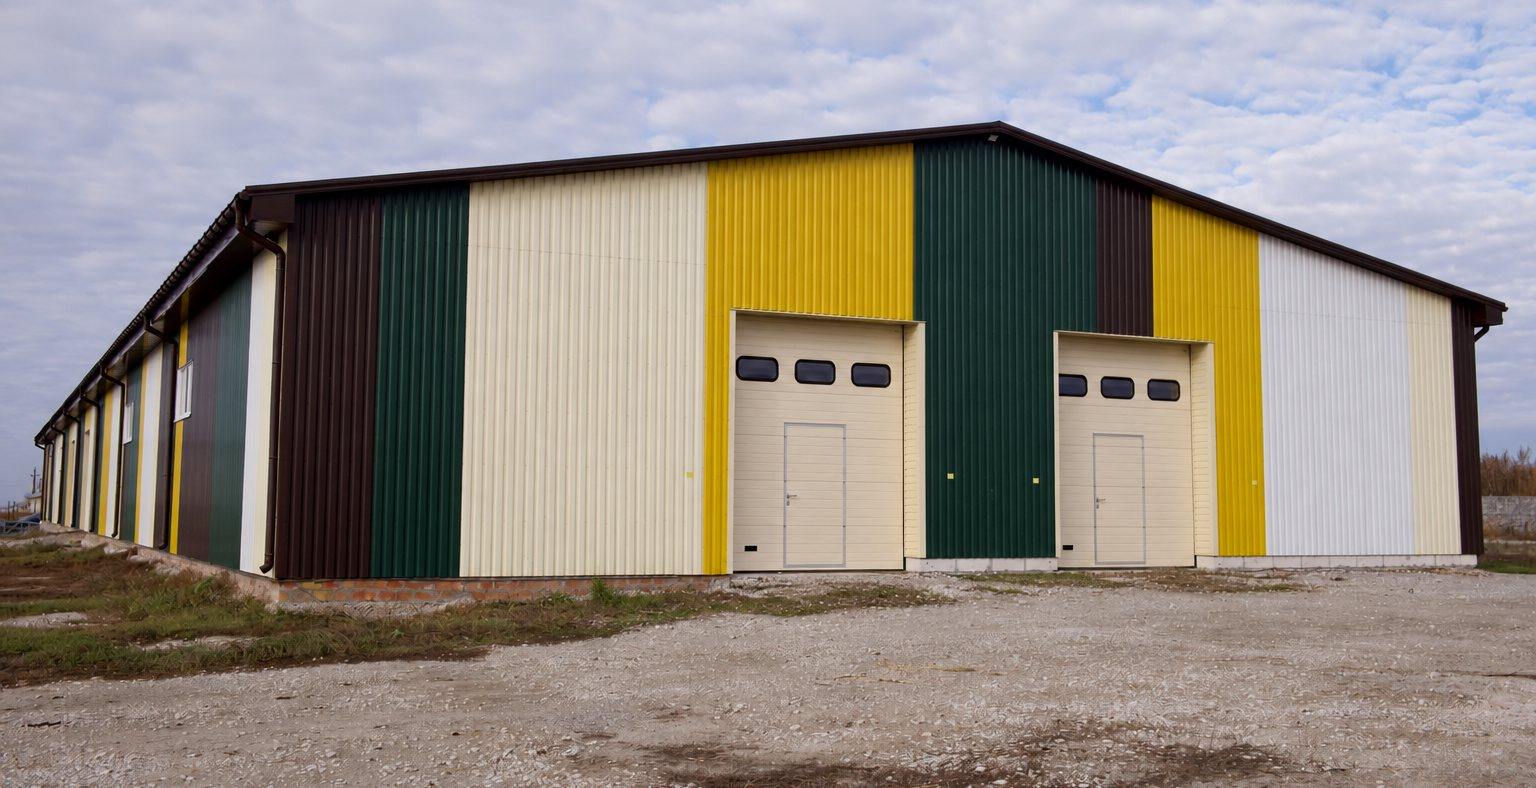
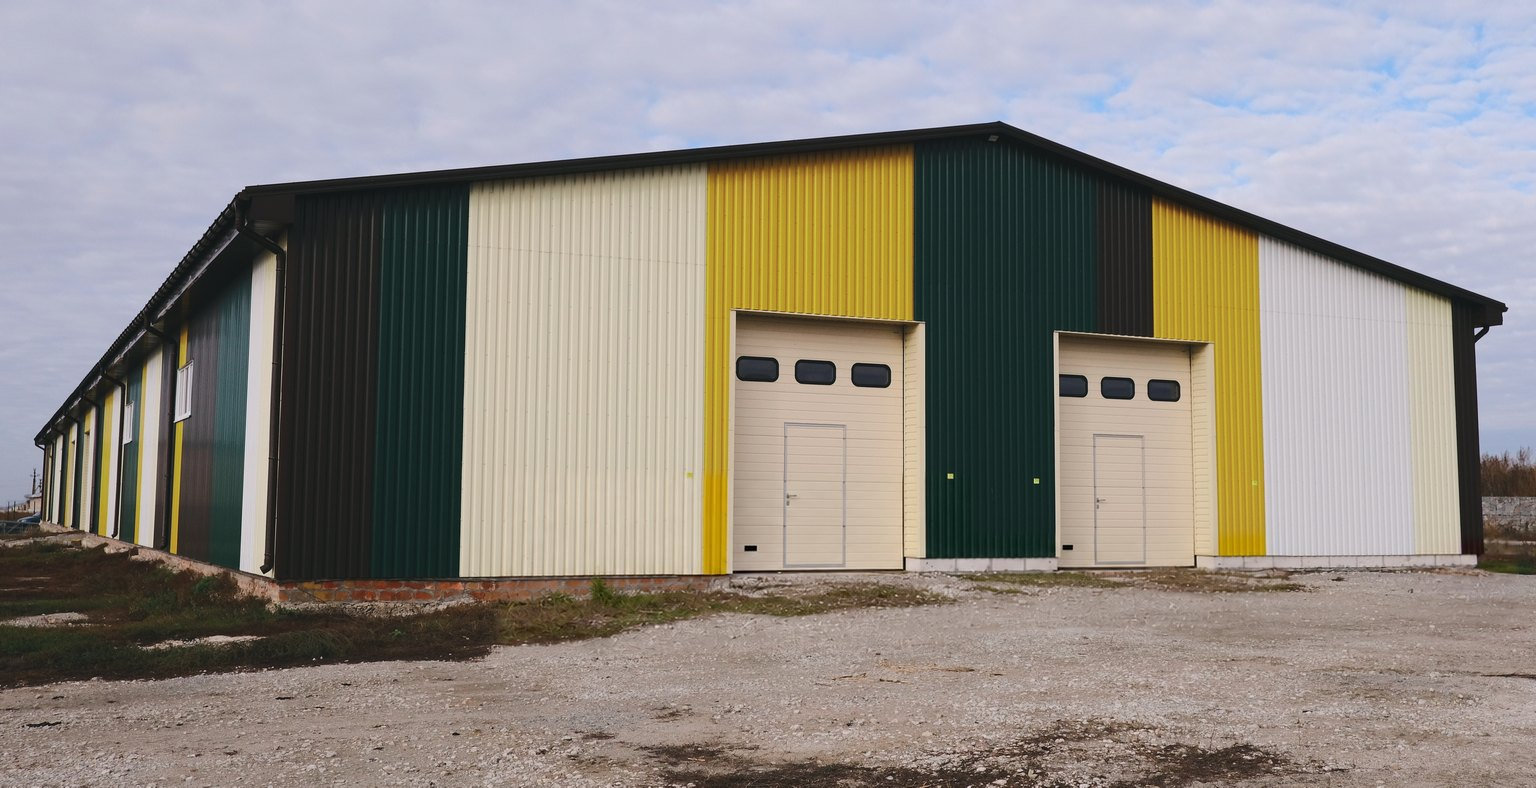
HOME proof: the owner's 4416 px retouch, sharp up to 3840 px wide
The owner re-exported the same retouch of DSCF7654 at 4416×2260 (04.10). It is laid onto the 1536×788 frame
the contour lines are registered on — one similarity fit (scale 0.347884, shift under 1 px, no rotation;
rms 0.68 px against the site's photo, 0.38 px against the RAW master, so nothing in the picture moved) — and
resized: WebP 960/1536/2304/3072/3840 px and the 1536 px JPEG. A retina desktop now draws the 3072 px copy
(it upscaled the 1536 px one 1.67×); /angary's real-object row gains the 2304 px copy. The line data pins
every file's sha256.

diff --git a/app/data/homeProofContour.ts b/app/data/homeProofContour.ts
@@ -5,6 +5,9 @@
  *
  * The lines come from the photo study of this hangar (eight photos of it; the owner's report of 04.10), registered
  * onto this exact frame and written here in its own pixels: x to the right, y down, origin at the top-left corner.
+ * The files are the owner's 4416 px retouch of the same frame (04.10), laid onto this frame by one similarity fit
+ * (scale and a 1 px shift, no rotation: rms 0.68 px; the retouch matches the RAW master within 0.38 px) and resized —
+ * up to 3840 px wide, so a retina screen draws it sharp; nothing in the picture changed.
  * They are tied to the file byte for byte: replace or
  * re-crop the photo (or its WebP copies) and tests/unit/home-proof-contour.test.ts fails the build until the lines are
  * registered again.
@@ -38,13 +41,16 @@ export type HomeProofContour = {
 export const homeProofContour: HomeProofContour = {
   photo: {
     src: '/photos/serhii-prior-hangar-retouched.jpeg',
[2 lines of base64/hex data omitted]
     width: 1536,
     height: 788,
   },
   variants: [
[7 lines of base64/hex data omitted]
   ],
   lines: [
     // The outline, drawn round from the apex: the right rake, the right corner, the base with the left corner, the left

diff --git a/app/data/homeProof.ts b/app/data/homeProof.ts
@@ -1,7 +1,8 @@
 /**
  * One documented object on HOME. The owner confirmed that the frame, panels and roof are Serhii's
  * prior experience, before RUBIKON BUILD. It must never be presented as a RUBIKON BUILD project or
- * attributed to the current team. HOME v2: the frame is the owner-supplied cleaned version of
+ * attributed to the current team. 04.10: the owner re-exported the same retouch at 4416 px; the site's files are made
+ * from it on the contour's frame (app/data/homeProofContour.ts). HOME v2: the frame is the owner-supplied cleaned version of
  * DSCF7654 (same hangar, gable end): loose items in front were retouched out, so the page says «Фото з ретушшю
  * переднього плану». Compared with the original on 2026-09-29: façade, roof, gates, side body unchanged; the plinth
  * behind the removed boards is filled in; the whole frame was re-rendered at 1536 px. Cropped, no metadata.

diff --git a/app/components/angary/HangarRealObject.tsx b/app/components/angary/HangarRealObject.tsx
@@ -37,7 +37,7 @@ export function HangarRealObject({ proof }: Readonly<{ proof: HomeProofCase }>) 
           <picture>
             <source
               type="image/webp"
-              srcSet="/media/home-v2/hangar-retouched-960w.webp 960w, /media/home-v2/hangar-retouched-1536w.webp 1536w"
+              srcSet="/media/home-v2/hangar-retouched-960w.webp 960w, /media/home-v2/hangar-retouched-1536w.webp 1536w, /media/home-v2/hangar-retouched-2304w.webp 2304w"
               sizes="(max-width: 760px) calc((100vw - 66px) * 1.46), (max-width: 1023px) calc(100vw - 76px), 50vw"
             />
             <img src={photo.src} alt={photo.alt} width={photo.width} height={photo.height} loading="lazy" decoding="async" />

diff --git a/scripts/generate-home-v2-crops.py b/scripts/generate-home-v2-crops.py
@@ -16,6 +16,10 @@ Iteration 3 (made once by hand, sources live outside the repo, so they are not i
       rubikon-real-hangar-cleaned.png (1536×1024; loose items in front removed, whole frame re-rendered), box
       (0, 172, 1536, 960) = the same framing as (0, 700, 6240, 3900) on the original; saved without EXIF. The page
       labels it «Фото з ретушшю переднього плану».
+  04.10: the owner re-exported the same retouch at 4416×2260 (DSCF7654_retouched_native_4416.jpg, outside the repo). It
+      replaced these files and added hangar-retouched-{2304,3072,3840}w: one similarity warp onto the 1536×788 frame the
+      contour lines are registered on (scale 0.347884, shift under 1 px, rms 0.68 px), then LANCZOS resizes; WebP q80,
+      the JPEG q86. app/data/homeProofContour.ts pins every file's sha256.
   The X-ray sketch made here once (concepts/hangar-xray-{1100,1774}w) left HOME on 04.10 with its files: the owner's
       variant A «Калька» draws only the lines measured from the photos over the photo itself.
 
